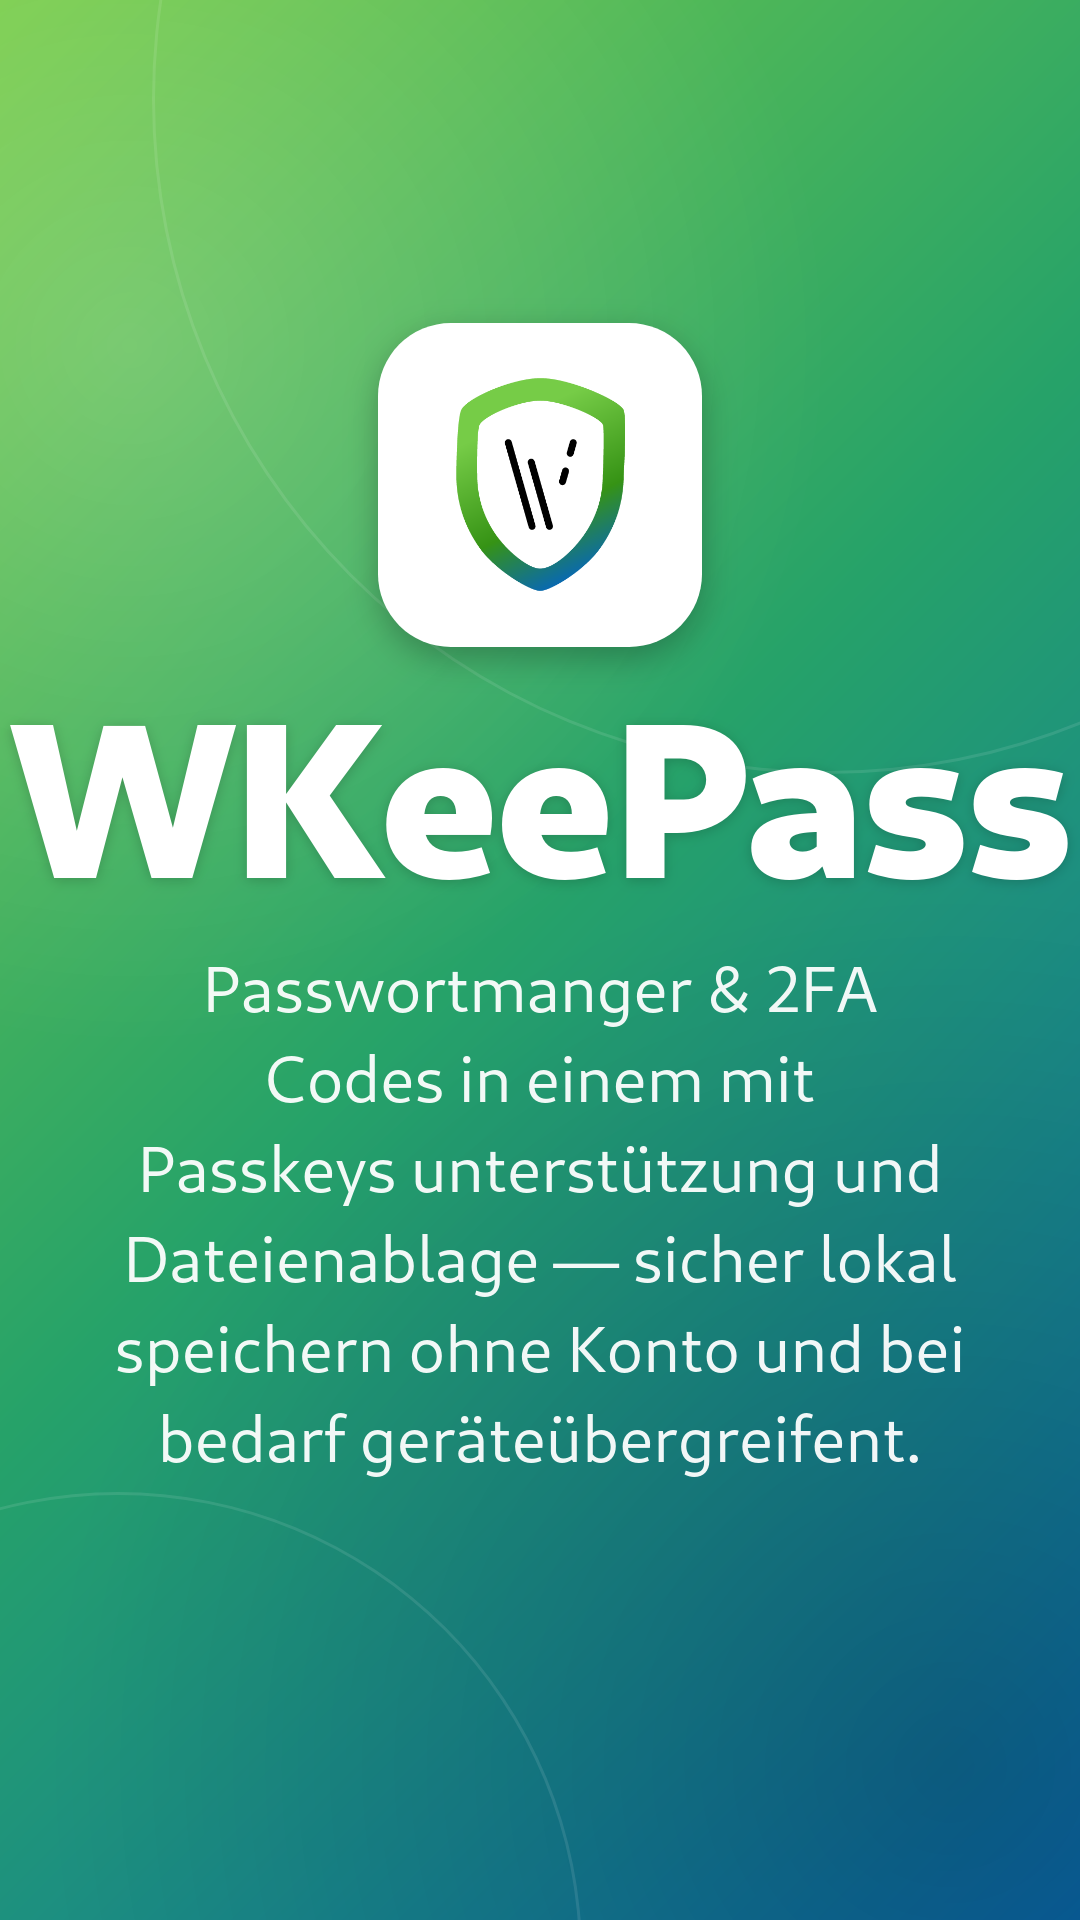
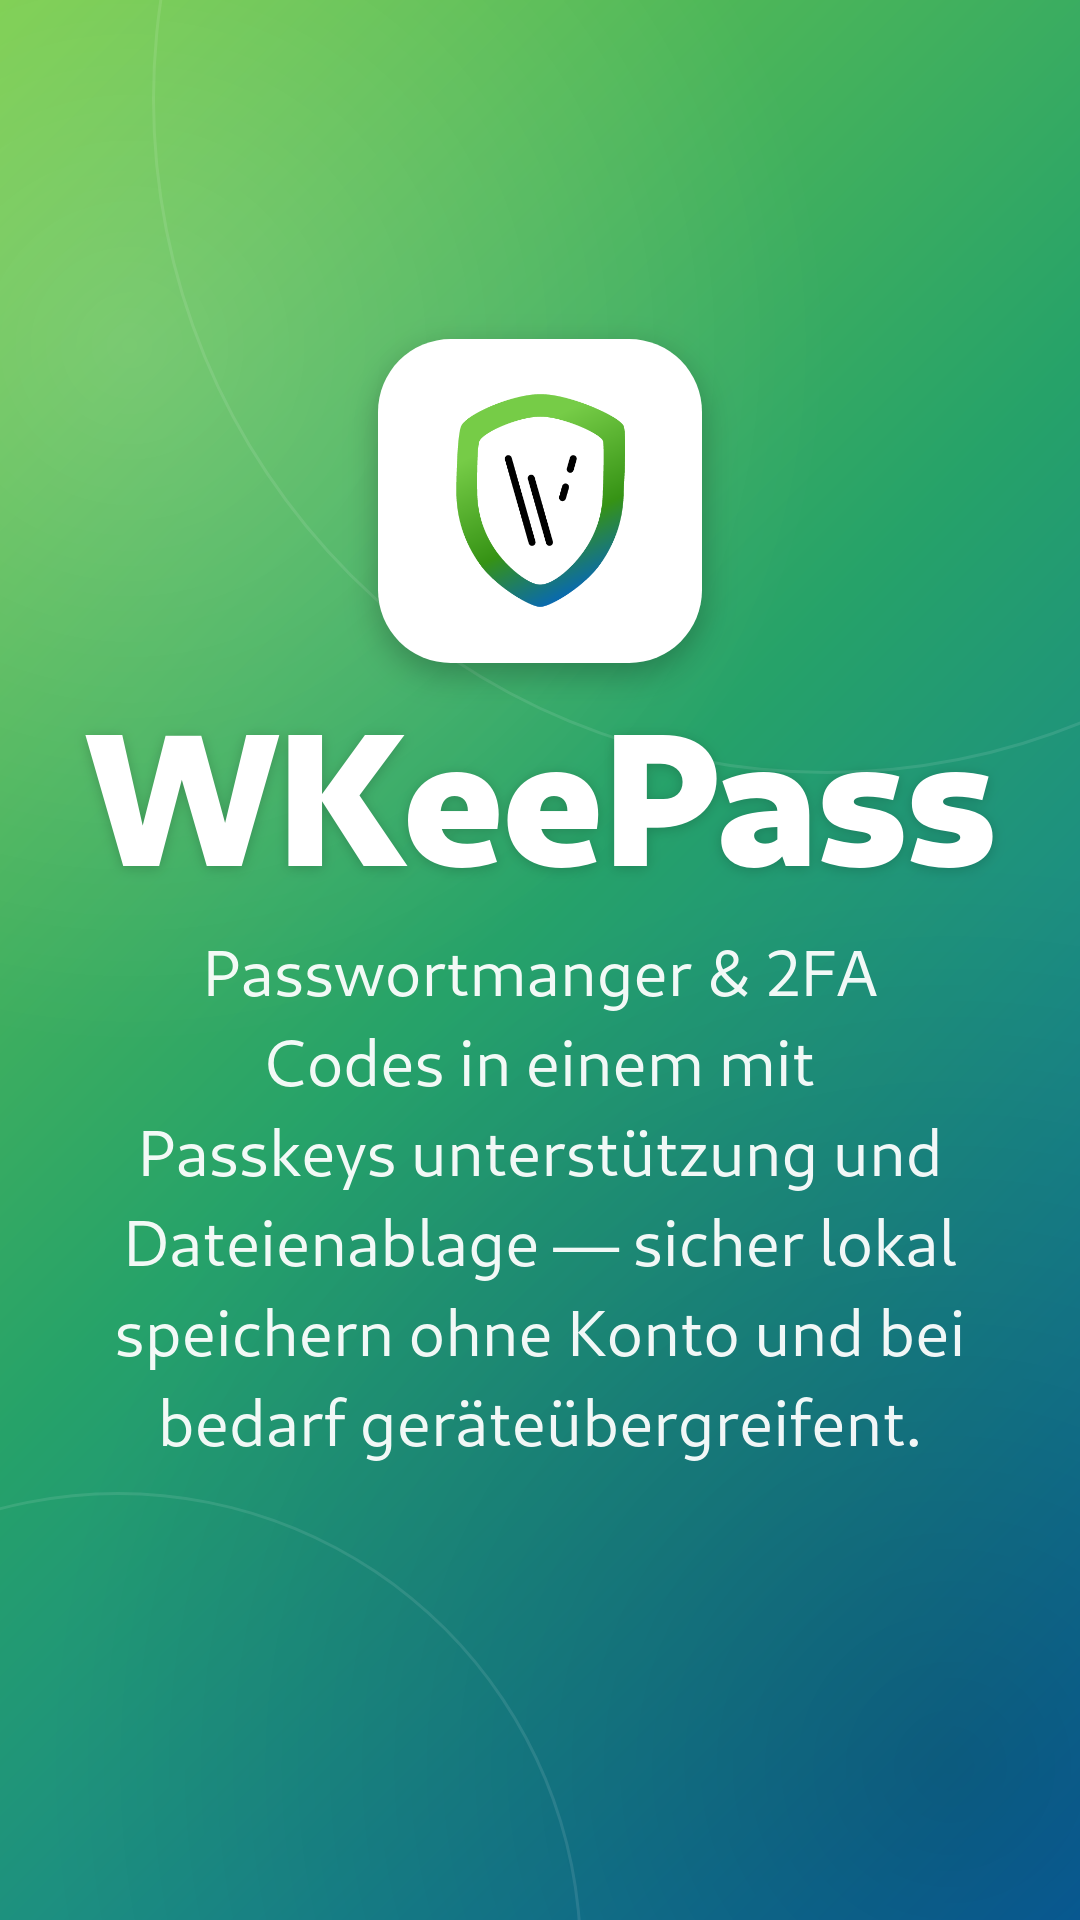
Änderungsdatum der Datenbankdatei in den Einstellungen, Titelbild neu
- Einstellungen → Diese Datenbank: „Datei zuletzt geändert“, am Rechner aus dem Dateisystem, auf Android vom Anbieter (last_modified)
- handy-1-titel.png mit angepasster Schriftgröße neu gerendert
- Changelog 0.1.0 ergänzt

diff --git a/src-ui/js/app.js b/src-ui/js/app.js
@@ -3009,7 +3009,8 @@ function settingsMarkup() {
       <div class="settings-card">
         <div class="setting">
           <div class="setting-label"><strong>${esc(current?.name ?? 'Geöffnete Datenbank')}</strong>
-            <small>${esc(current?.path ?? '')}</small></div>
+            <small>${esc(current?.path ?? '')}</small>
+            <small id="db-modified" hidden></small></div>
         </div>
         <div class="setting">
           <div class="setting-label"><strong>Aus anderen Apps importieren</strong>
@@ -3627,6 +3628,18 @@ function wireSettings(root = $('#settings-body')) {
   });
 
   root.querySelector('#btn-import-entries')?.addEventListener('click', () => importFromOtherApps());
+
+  // Änderungsdatum der Datei — fragt je nach Ort das Dateisystem oder den
+  // Cloud-Anbieter, darum nachgereicht statt beim Zeichnen.
+  const dbPath = settings.get('database.current', null);
+  const modifiedEl = root.querySelector('#db-modified');
+  if (dbPath && modifiedEl) {
+    invoke('database_modified', { path: dbPath }).then(ms => {
+      if (!ms) return;
+      modifiedEl.textContent = `Datei zuletzt geändert: ${new Date(ms).toLocaleString('de-DE', { dateStyle: 'medium', timeStyle: 'short' })}`;
+      modifiedEl.hidden = false;
+    }).catch(() => {});
+  }
 
   root.querySelector('#btn-export')?.addEventListener('click', () => {
     settings.downloadSettings();

diff --git a/src-ui/js/demo.js b/src-ui/js/demo.js
@@ -648,6 +648,7 @@ const commands = {
 
   /** Fremde Seiten sperren den Abruf per CORS aus — im Browser also nichts. */
   async fetch_page_title() { return null; },
+  async database_modified() { return Date.now() - 3600_000; },
 
   /* ---------- QR ---------- */
 

diff --git a/src-tauri/src/storage.rs b/src-tauri/src/storage.rs
@@ -59,6 +59,18 @@ pub fn read(path: &str) -> Result<Vec<u8>, String> {
     std::fs::read(path).map_err(|e| format!("Datei nicht lesbar: {e}"))
 }
 
+/// Wann die Datei zuletzt geändert wurde, in Millisekunden seit 1970.
+///
+/// Bei einer Adresse weiß das nur der Anbieter (Nextcloud, Drive …) —
+/// `None`, wenn er es nicht verrät.
+pub fn modified_ms(path: &str) -> Option<i64> {
+    if is_uri(path) {
+        return uri::modified_ms(path);
+    }
+    let zeit = std::fs::metadata(path).ok()?.modified().ok()?;
+    Some(zeit.duration_since(std::time::UNIX_EPOCH).ok()?.as_millis() as i64)
+}
+
 /// Schreibt eine Datei.
 ///
 /// Über einen Pfad so, dass ein Abbruch die alte Fassung nicht zerstört
@@ -309,6 +321,60 @@ mod uri {
         }
     }
 
+    /// `DocumentsContract.Document.COLUMN_LAST_MODIFIED` beim Anbieter.
+    pub fn modified_ms(path: &str) -> Option<i64> {
+        use jni::objects::{JObject, JObjectArray, JValue};
+
+        let ergebnis = crate::java::mit_java(|env, activity| {
+            let resolver = env
+                .call_method(activity, "getContentResolver", "()Landroid/content/ContentResolver;", &[])?
+                .l()?;
+            let uri = parse_uri(env, path)?;
+
+            let spalte = env.new_string("last_modified")?;
+            let spalten: JObjectArray = env.new_object_array(1, "java/lang/String", &spalte)?;
+
+            let cursor = env
+                .call_method(
+                    resolver,
+                    "query",
+                    "(Landroid/net/Uri;[Ljava/lang/String;Ljava/lang/String;[Ljava/lang/String;Ljava/lang/String;)Landroid/database/Cursor;",
+                    &[
+                        JValue::Object(&uri),
+                        JValue::Object(&spalten),
+                        JValue::Object(&JObject::null()),
+                        JValue::Object(&JObject::null()),
+                        JValue::Object(&JObject::null()),
+                    ],
+                )?
+                .l()?;
+
+            if cursor.is_null() {
+                return Ok(None);
+            }
+
+            let mut zeit = None;
+            if env.call_method(&cursor, "moveToFirst", "()Z", &[])?.z()?
+                && !env.call_method(&cursor, "isNull", "(I)Z", &[JValue::Int(0)])?.z()?
+            {
+                let ms = env.call_method(&cursor, "getLong", "(I)J", &[JValue::Int(0)])?.j()?;
+                if ms > 0 {
+                    zeit = Some(ms);
+                }
+            }
+            env.call_method(&cursor, "close", "()V", &[])?;
+            Ok(zeit)
+        });
+
+        match ergebnis {
+            Ok(zeit) => zeit,
+            Err(e) => {
+                eprintln!("[storage] Änderungszeit zu {path} nicht ermittelbar: {e}");
+                None
+            }
+        }
+    }
+
     fn parse_uri<'a>(env: &mut jni::JNIEnv<'a>, path: &str) -> Result<jni::objects::JObject<'a>, jni::errors::Error> {
         use jni::objects::JValue;
         let text = env.new_string(path)?;
@@ -360,6 +426,10 @@ mod uri {
     pub fn remember(_path: &str) {}
 
     pub fn display_name(_path: &str) -> Option<String> {
+        None
+    }
+
+    pub fn modified_ms(_path: &str) -> Option<i64> {
         None
     }
 

diff --git a/src-tauri/src/system.rs b/src-tauri/src/system.rs
@@ -170,6 +170,15 @@ pub fn datei_uebergeben(app: &tauri::AppHandle, args: impl IntoIterator<Item = S
     let _ = app.emit("open-database", path);
 }
 
+/// Wann die Datenbankdatei zuletzt geändert wurde (ms seit 1970) — für die
+/// Einstellungen. `None`, wenn der Speicherort es nicht verrät.
+#[tauri::command]
+pub async fn database_modified(path: String) -> Result<Option<i64>, String> {
+    tauri::async_runtime::spawn_blocking(move || crate::storage::modified_ms(&path))
+        .await
+        .map_err(|e| e.to_string())
+}
+
 /// Holt den Namen des Dienstes hinter einer Adresse (siehe `web::dienstname`).
 ///
 /// Aus dem Webview heraus geht das nicht — fremde Seiten verbieten den

diff --git a/src-tauri/src/lib.rs b/src-tauri/src/lib.rs
@@ -278,6 +278,7 @@ pub fn run() {
             system::pick_database_file,
             system::pick_save_path,
             system::fetch_page_title,
+            system::database_modified,
             // Passkeys
             passkey::passkey_list,
             passkey::passkey_create,
